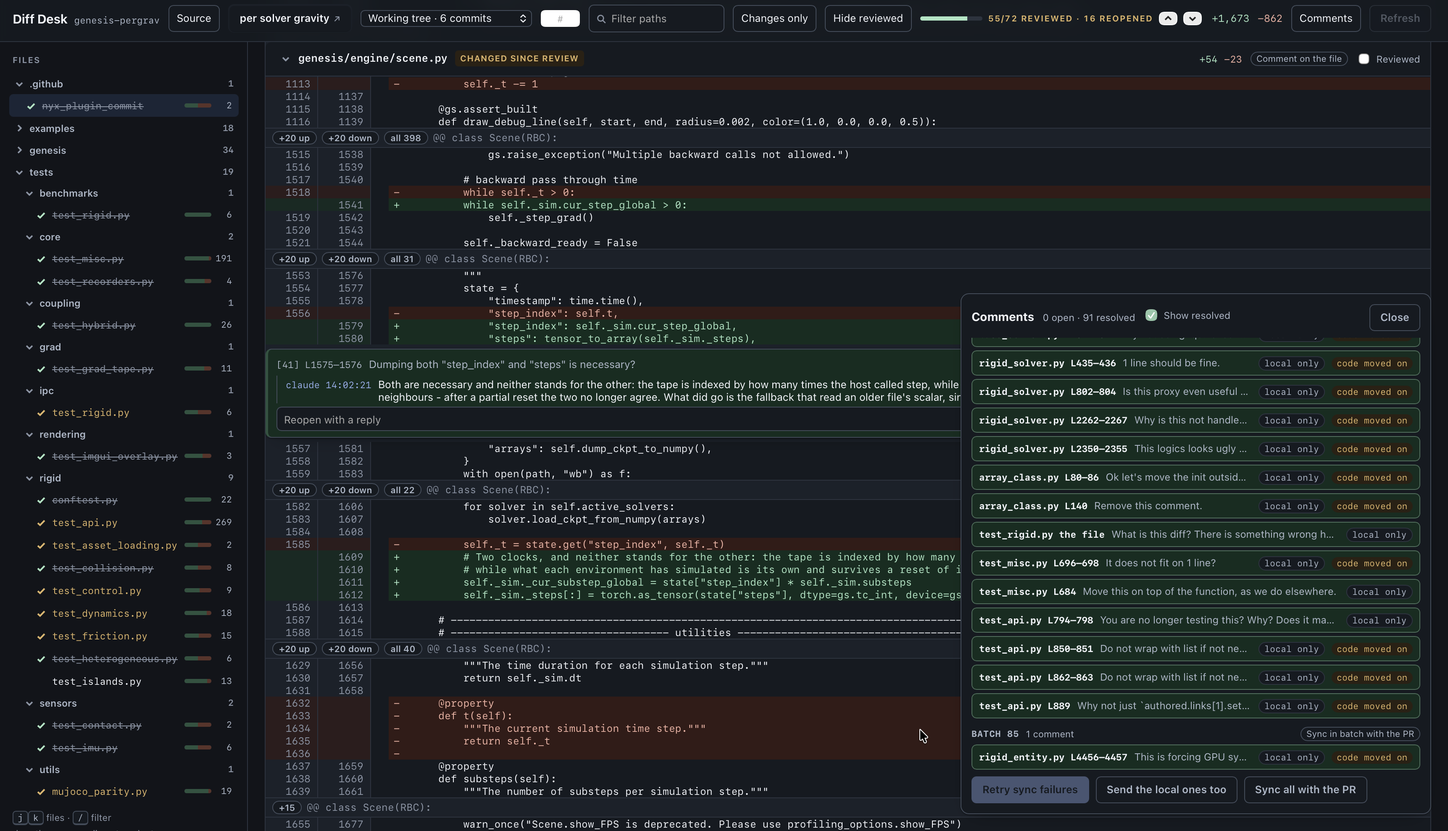
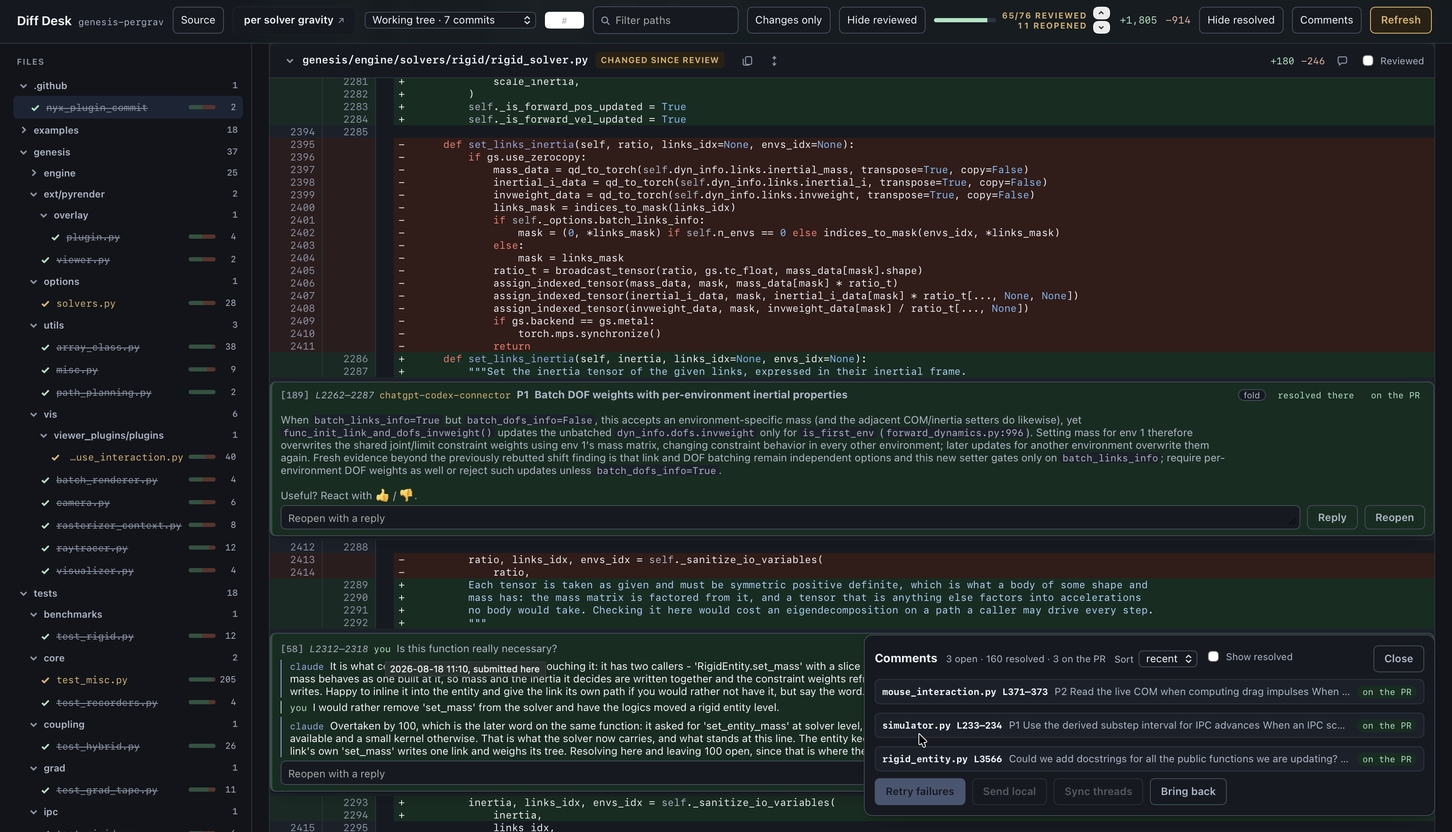
Say what the desk is for, and show what it looks like now. (#64)

Changed region(s): [[0.0, 0.0, 0.9936, 1.0], [0.0, 0.0, 0.2174, 0.0617], [0.0, 0.9869, 0.0311, 1.0]]

diff --git a/diff_desk_template.html b/diff_desk_template.html
@@ -1532,14 +1532,15 @@
   }
 
   async function syncThere(loud) {
-    // Replies both ways, and the pull request's word on what is resolved: it is the copy everyone else reads.
+    // A sync only listens: replies, comments opened there, and the pull request's word on what is resolved, which is
+    // the copy everyone else reads. What this desk holds goes out when the reader sends that thread.
     const request = branch().pr;
     if (!request || !notes.live) return;
     if (loud) els.logresult.textContent = `Syncing with PR #${request.number}...`;
     const outcome = await post("sync", where());
     if (loud) {
       els.logresult.textContent = outcome.ok
-        ? `Sent ${outcome.sent}, brought back ${outcome.brought}, closed ${outcome.closed} here`
+        ? `Brought back ${outcome.brought} reply(ies), took ${outcome.took} comment(s) in, closed ${outcome.closed} here`
         : `Could not sync: ${outcome.error || "GitHub unreachable"}`;
     }
     if (!outcome.ok) announce("sync", `PR #${request.number}`, outcome.error || "GitHub unreachable");

diff --git a/desk.py b/desk.py
@@ -310,7 +310,7 @@ job = jobs.add_parser("comments", help="what has been submitted")
 job.add_argument("--all", action="store_true", help="include the ones already addressed")
 job.set_defaults(run=comments)
 
-job = jobs.add_parser("sync", help="carry replies both ways with the pull request")
+job = jobs.add_parser("sync", help="bring back what the pull request holds")
 job.set_defaults(run=sync)
 
 job = jobs.add_parser("bind", help="aim comments at the pull request, or keep them local")

diff --git a/README.md b/README.md
@@ -1,222 +1,112 @@
 # Diff desk
 
-A local code review page for any git range, and a way to hand the comments you leave on it to an AI coding session.
+A local review page for any git range, and a way to hand the comments left on it to an AI coding session or to a pull request.
 
-![The review page: the file tree, a diff with a comment thread open, and the comment panel](media/desk.png)
+![The review page: the file tree, a diff with a comment thread open, and the Comments panel](media/desk.png)
 
-Point it at a repository and a base ref; it serves a review page on `127.0.0.1:8787` with your branches as tabs, each
-scoped to the whole range or to a single commit. You comment on lines by dragging over them; every submitted batch is
-recorded to a file with a cursor, so a session can pick up exactly what it has not seen yet, work through it, and mark
-each comment addressed - which the page then shows as closed. If the branch has an open pull request, the same batch
-can optionally be posted there as one review.
+## What it is for
 
-It needs `git`, `gh` and python3. Nothing else - no build step, no packages, no service.
+Any range of commits, whoever wrote them. These are typical uses, not the only ones:
 
-## Using it
+- Read what a session just wrote, before any of it becomes a pull request.
+- Review an open pull request locally, holding every remark until you decide to send it.
+- Hand the remarks to a session locally, and put only the settled outcome on the pull request.
+- Let a session review someone else's pull request, then audit and edit its remarks before they go out.
+
+It needs `git`, `gh` and python3. No build step, no packages, no service.
+
+## Serving a review
 
     python3 desk.py serve --dir /path/to/repo --base upstream/main [refs ...]
 
-What can be reviewed:
+The page comes up on `127.0.0.1:8787`, each ref a tab, scoped to the whole range or to a single commit.
 
-- **Local branches.** Omit the refs entirely to be offered every local branch ahead of the base. The checked-out
-  branch is shown with its uncommitted work included, so a review can start before a commit exists.
-- **Pull requests, by number** - `3243`, `#3243` or `pr/3243`. The head is fetched from the upstream repository by
-  number, so neither the fork it lives on nor the branch name it uses has to be known, and a head force-pushed since
-  the last look is picked up. It lands in `refs/diffdesk/pull/<number>`, out of the way of your own branches. One
-  fetched earlier stays reviewable while GitHub is unreachable: what cannot be read falls back to the head on disk.
+- **Local branches.** Omit the refs to be offered every branch ahead of the base. The checked-out branch carries its uncommitted work, so a review can start before a commit exists.
+- **Pull requests, by number** - `3243`, `#3243` or `pr/3243`. The head is fetched by number into `refs/diffdesk/pull/<number>`, so neither the fork it lives on nor its branch name has to be known, and a force-push since the last look is picked up. One fetched earlier stays reviewable while GitHub is unreachable.
+- Both are reviewed side by side as tabs, and the page's **Source** panel switches repository, base, branch and pull request without a restart.
 
-Both can be reviewed side by side in one desk, as tabs. A tab whose branch has a pull request names it on hover - title
-and link - and clicking the tab you are already on opens that pull request on GitHub. Repository, base, branches and pull requests can also be
-switched from the page's own Source panel, without restarting anything - it lists the branches ahead of the base and
-every open pull request, filterable together.
+## Reading a diff
 
-On the page:
+- The file list is a tree following the repository's folders, foldable and remembered, with a count per folder. A chain of single-child directories is one row.
+- `j`/`k` walk the files, `/` filters them, `c` comments on the selection, `r` marks the current file reviewed.
+- **Changes only** hides context lines, **Hide reviewed** clears what you are done with, and **Reviewed** folds one file away. The tick is kept per file digest, so a file whose diff moves reopens itself.
+- **`+20 up` / `+20 down` / `all N` / `+20 below`** bring in the lines the diff left out, read from the file at that revision.
+- A file is built when you come within reach of it and let go once you are well past, standing at the height its lines measured. A six-thousand-line review is 5,700 nodes rather than 218,000 and opens in half a second rather than seven. What it costs: the browser's own search reaches the files you are near.
+- Copying a selection gives the code alone - no line numbers, no `+`/`-` markers, indentation intact.
+- **What you have not seen does not stay folded**: a file whose diff changed since you ticked it, one holding a comment never shown to you, a resolved thread answered since you last read it. Seen means it has been on your screen.
+- The branch is watched while you read it. **Refresh** is offered once the diff it was built from has moved on - a commit, a fixup, work saved on disk - and never taken on your behalf: it keeps the branch, the commit, every comment and every tick.
 
-- **Drag the line numbers or the `+`** to select a range, and let go to open the comment box. A range may cover removed
-  and added lines together. Dragging across the code selects the code, as anywhere else - that is how it is copied.
-- **`+20 up` / `+20 down` / `all N`** on each hunk header, and `+20 below` at the end of a file, bring in the lines the
-  diff left out, read from the file at that branch's revision.
-- **Reviewed** folds a file away. The tick is remembered per branch and per file digest, so a file whose diff changes
-  reopens itself rather than staying silently ticked.
-- **Send** in the comment box posts that one comment immediately; **Add to review** keeps it for a batch that goes out
-  together with **Submit review** and an optional overall note. Both take the same path, so a lone comment is recorded,
-  threaded and posted exactly like a batch.
-- **Nothing has to go out all at once.** Each comment waiting in the review tray has its own Send, leaving the rest
-  pending, and the Comments panel groups everything by the batch it was written in, with a Send for each - so batches go
-  to the pull request one at a time, in whatever order suits.
-- **A file can be commented on as a whole**, from its header, for a remark that belongs to no line of it. It is
-  recorded, threaded, replied to and resolved like any other, reads as "the file" wherever a line range would be, and
-  reaches a pull request as a review comment naming the file with no line beside it.
-- **A session hears about replies, not only comments.** The log carries an event cursor that every write bumps, and
-  `desk.py watch` follows it: an answer written on a comment read long ago reaches the session exactly as a new comment
-  does. Each event says which side made it, so a session never mistakes its own reply for news, and the watch keeps
-  running rather than stopping at the first thing said.
-- **Every comment is a thread.** Either side can reply, and either side can resolve or reopen it. Resolving folds the
-  thread to its remark alone and keeps every reply behind one click, so closing a comment discards nothing.
-- **A comment can be deleted**, whole or down to its last reply, from the `x` on the thread and the one on that reply.
-  A comment already posted is deleted on the pull request as well, newest first, and a deletion GitHub refuses leaves it
-  here untouched rather than hiding a remark that is still there. Deleting is the one thing that does discard: it is
-  asked for each time, and only the last reply can go, since deleting further up would leave the answers below it
-  standing against nothing.
-- **Resolving one that reached the pull request resolves it there too**, by finding the thread its text opened and
-  resolving that. Until GitHub confirms it, the comment reads "not resolved there yet" beside its own resolution rather
-  than claiming agreement it does not have; a resolution that could not be made is retried like a post that did not
-  land.
-- **Every remark and every reply says whose it is**, in the ink their words are read in: yours, the session's, or the
-  author who wrote it on the pull request - your own login among them, read back as "you". It opens the line the way a
-  name opens a line of dialogue, so the words run on from it and wrap at the full width; hovering says where it was
-  written, which is the one thing rarely worth the room.
-- **A reply is a comment attached to a thread.**
-- **A thread goes out when you send it, as it reads then.** Each thread carries its own **Sync**, saying what pressing
-  it would carry - the remark if the pull request has none of it, the replies it does not hold, its resolution once you
-  have closed it. Whatever is written afterwards, by you or by a session, waits for the next press: nothing leaves this
-  desk as a consequence of somebody writing in a thread. A sync only brings back what the pull request holds.
-- **The Comments panel is where several are worked through.** Every row is a thread and sends itself from its own row;
-  **Sync the threads on the PR** sends every thread the pull request already holds, which is what a review that has been
-  going back and forth for a while needs.
-- **The panel is read by batch or by what moved last.** A batch says which submission a remark went out in, and nothing
-  else - a reply belongs to its thread and carries no batch of its own. So sorting by what moved last is where the
-  answer just written into a batch of long ago is found, and the choice outlives the reload.
-- **A sync brings the pull request's own comments in.** What a reviewer or a bot wrote there arrives as a comment of
-  its own, numbered like the rest and carrying its author, so a session hears about it from the watch and can answer it.
-  Those are the comments the desk answers rather than rewrites: the remark stays its author's word.
-- **What GitHub refuses is said where you are.** A sync, a send or a resolution that could not happen raises a notice
-  from the bottom of the page carrying the reason, and it stays until dismissed - the panel it happened in is often
-  closed. Pressing **Refresh** is acknowledged the same way: the button reports that it is collecting and refuses a
-  second press until it is done.
-- **Bring back** collects what the pull request holds: replies written there, arriving with their author, its word on
-  what is resolved, and the threads opened there that this desk has none of. It asks for nothing in return - a resolution
-  a thread there is holding closes it here, since that is the copy everyone else reads, and one closed here waits to be
-  sent. Bringing back twice brings nothing back twice.
+## Commenting
 
-  A resolution is believed only when GitHub reports the thread as resolved, so a send that could not be made says so on
-  the thread rather than reading as agreement nobody else can see.
-- **A review is held a screenful at a time.** Every file keeps its header; the lines of one are built when you come
-  within reach of it and let go once you are well past, and a card that has been let go stands at the height its lines
-  measured, so nothing under you moves as you read. A six-thousand-line review is 5,700 nodes rather than 218,000, opens
-  in half a second rather than seven, and redraws in 50 ms rather than two seconds. What it costs: the browser's own
-  search reaches the files you are near rather than every file at once, and a comment reached from the panel builds the
-  file it hangs in on the way.
-- **Copying a selection gives the code alone** - no line numbers, no `+`/`-` markers, indentation intact - so a snippet
-  lifted out of a diff pastes straight into an editor. A selection inside a single line copies as the browser made it.
-- **Code stays code.** A fenced block keeps its indentation as a code block, backticks stay inline code, and line
-  breaks stay where you put them. Pasted text is only ever text, never markup the page acts on.
-- **Edit** rewrites a comment, or any reply written here, and keeps what it said before. One already posted to a pull
-  request is marked as having moved on from what the pull request holds. A reply carried back from a pull request is
-  shown as its author wrote it and carries no Edit.
-- **Comments** in the header opens the log: every comment on the branch, whether it is open or resolved, whether it is
-  waiting for GitHub, already on the pull request, or local only. Clicking one jumps to it.
-- **The standing of a comment is a control, not a label.** Click "local only" on a comment to send that one to the pull
-  request, or the panel's button to send every local one at once; click it again to keep a comment out. The decision
-  stays changeable until it lands, so a comment written before deciding never has to be written twice.
+- **Drag the line numbers or the `+`** to select a range, and let go to open the box. A range may cover removed and added lines together. Dragging across the code selects the code, as anywhere else.
+- **A file header comments on the file as a whole**, for a remark that belongs to no line of it.
+- **Add to review** hands a comment to the tray, which submits the batch with **Submit review** and an optional overall note. A submission records the remarks here; **Also post to PR #N** in the tray is what sends them out with it.
+- **Every comment is a thread.** Either side replies, resolves or reopens. Resolving folds the thread to its remark and keeps the replies one click away.
+- **Every remark and reply says whose it is**, in the ink its words are read in - yours, the session's, or the author who wrote it on the pull request, your own login among them read back as "you". Hovering says when and where it was written.
+- **Edit** rewrites a remark, or a reply written here, keeping what it said before. A reply carried back from a pull request stands as its author wrote it.
+- **Delete** takes a thread, or its last reply, from the `x` on either. It is the one thing that discards, so it is asked for each time; one already posted goes from the pull request too.
+- **A comment follows its line** when the diff moves under it, reading "moved from L<n>". One whose line has left the diff is kept, marked "code moved on", at the end of the file it belonged to. Neither is ever resolved or deleted on your behalf.
+- **Every comment wears the number it is referred to by**, so an answer saying "[58]" points at a thread. Press `#`, type the number, and the page goes to it, unfolding whatever was folded; a URL ending in `#58` lands the same way.
+- A comment keeps the markdown that carries meaning: fenced blocks and backticks stay code, `>` lines read as the passage they quote. Pasted text is only ever text.
+- Comments survive a reload, a refresh and a browser closed on them, a half-written reply included.
+- **Comments** in the header opens the panel: every thread on the branch, open or resolved, waiting for GitHub or local only. Clicking one jumps to it.
 
-A comment remembers the line it was written against, so when the diff moves under it - a fixup pushed, a rebase - it
-follows that line to wherever it went and says "moved from L<n>" rather than sitting on a line number that now holds
-something else. A comment whose line is no longer in the diff at all is **kept**, marked "code moved on", and shown at
-the end of the file it belonged to. Neither is ever resolved or deleted on your behalf.
-- **Every comment wears the number it is referred to by**, so an answer that says "[58]" points at a thread you can
-  find. Press `#` from anywhere, type the number, and the page goes to it - unfolding the file and the thread whatever
-  state they were left in - and a URL ending in `#58` lands on it the same way.
-- **What you have not seen does not stay folded.** A file whose diff has changed since you marked it reviewed opens
-  itself, so does one holding a comment you have never been shown, and so does a resolved thread answered since you
-  last read it. What counts as seen is what has been on your screen: a thread built inside a folded file or below the
-  fold is not read, so it keeps showing itself until you have actually looked at it.
-  A fold you make by hand is remembered against the diff you made it on, so it holds until that diff moves.
-- **The branch is watched while you read it.** A reload collects the diffs again, and a page left open offers a
-  **Refresh** once what it was built from has moved on - a commit, a fixup, work saved on disk. It is offered, never
-  taken: rebuilding the diff under you would move the ground you are on, and taking it keeps the branch and commit you
-  were reading, along with every comment and tick. Comments written and not yet sent are kept through both, so a
-  refresh, a reload, or a browser closed on them costs nothing, and a reply half written into a thread survives the
-  page redrawing itself under it. Every box grows with what is written into it, up to the point where a long remark
-  would push the diff off screen and scrolls inside instead. A comment keeps the little markdown that carries meaning:
-  fenced blocks and backticks stay code, and a run of `>` lines reads as the passage it quotes.
-- **The file list is a tree** following the repository's folders, each foldable and remembered across reloads, with a
-  count per folder. A chain of single-child directories is one row, so a deep path costs one line and not one per
-  level. Walking onto a file inside a folded folder reveals it.
-- **Changes only** hides context lines; **Hide reviewed** clears what you are done with; `j`/`k` walk the files, `/`
-  filters them, `c` comments on the selection, `r` marks the current file reviewed.
+## Sending to a pull request
 
-## Handing the comments to a session
+Nothing leaves this desk on its own.
 
-The desk records every batch to `~/.claude/diff-desk/comments.jsonl`, numbering each comment and stamping the batch it
-arrived in. A session waits for one with:
+- **A thread goes out when you send it, as it reads then.** Each carries its own **Sync**, saying what pressing it would carry: the remark if the pull request has none of it, the replies it does not hold, the resolution once you have closed it. Whatever is written afterwards waits for the next press.
+- **The Comments panel works through several.** Every row sends itself; **Send local** aims the local ones at the pull request and sends them; **Sync threads** sends every thread the pull request already holds, which is what a review going back and forth needs.
+- **Bring back** collects what the pull request holds: replies written there with their authors, its word on what is resolved, and the threads opened there this desk has none of. It asks for nothing in return, and bringing back twice brings nothing back twice.
+- **The standing of a comment is a control.** Click "local only" to send that one, click it again to keep it out. The decision stays changeable until it lands.
+- A range becomes a GitHub range comment; one covering removed and added lines is anchored on the added side, the side a range can be expressed on. A batch goes out as one review.
+- **A send that does not land loses nothing.** The comment is recorded before GitHub is contacted, marked `pending` until it lands and `failed` if it does not, keeping the reason. What is owed is retried three ways: the panel's **Retry failures**, on its own every few seconds, and the moment the network returns. A rejection retrying cannot help - a line outside the diff, no permission - is marked `refused` instead.
+- **A resolution is believed only when GitHub reports the thread resolved.** Until then the comment reads "not resolved there yet" beside its own resolution.
+- **What GitHub refuses is said where you are**, as a notice carrying the reason that stays until dismissed.
+- **The panel reads by batch or by what moved last.** A batch names the submission a remark went out in; a reply belongs to its thread and carries no batch, so recency is where the answer just written into an old batch is found.
 
-    python3 desk.py watch
+## Working with a session
 
-which blocks until a batch lands, prints each comment as `[seq] branch path:line-endLine (side) text` with its state
-and any replies, each numbered by its place in the thread, and exits. It reports to stdout and nowhere else: sent to a
-file, the watch keeps watching and reports to nobody. A session then answers, closes, or rewrites them:
+Every comment is recorded to `~/.claude/diff-desk/comments.jsonl`, numbered, with an event cursor every write bumps.
 
+    python3 desk.py watch                                     # block until something is said, print it, exit
+    python3 desk.py comments                                  # what is outstanding, with replies and GitHub standing
     python3 desk.py reply 3 "it happens because ..."          # answer, leaving it open
     python3 desk.py resolve 3 4 --answer "fixed in abc1234"   # answer and close
     python3 desk.py resolve 3 --reopen                        # put one back
     python3 desk.py edit 3 "what I actually meant ..."        # rewrite, keeping the earlier wording
     python3 desk.py edit 3 --reply 0 "worded better ..."      # rewrite one reply, by its place in the thread
+    python3 desk.py sync                                      # bring the pull request's comments in
 
-The page picks all of that up on its own, threading the replies under the comment. `desk.py comments` lists what is
-still outstanding, with each thread's replies and where it stands with GitHub.
+The watch follows the cursor, so an answer written on a comment read long ago arrives exactly as a new comment does, and each event says which side made it, so a session never mistakes its own reply for news. It reports to stdout and nowhere else. The page picks all of it up on its own, threading the replies under the comment.
 
-As a Claude Code skill, drop this repository into `~/.claude/skills/diff-desk/` and the flow above needs no
-explaining - `SKILL.md` tells the session how to serve a review, wait for comments, and close them out.
+A sync brings the pull request's own comments in, each carrying its author, so a remark a reviewer or a bot wrote there reaches the session through the watch and can be answered. Those the desk answers rather than rewrites: the remark stays its author's word.
 
-## Posting to a pull request
+Dropped into `~/.claude/skills/diff-desk/`, this is a Claude Code skill and the flow above needs no explaining - `SKILL.md` tells the session how to serve a review, wait for comments, and close them out.
 
-When a branch has an open pull request, the tray offers to post the batch there as well. Ranges become GitHub range
-comments; a comment covering removed and added lines is anchored on the added side, which is the side a line range can
-be expressed on. It goes out as a single review rather than a stream of separate comments, and it is always opt-in.
+## Where things live
 
-**A post that does not land loses nothing.** The comment is written to the log before GitHub is contacted, so the order
-of events is: recorded, then attempted. A comment bound for a pull request is marked `pending` until it lands and
-`failed` if it does not, keeping the reason. Either way it stays in the log, and the log panel shows exactly how many
-are waiting.
+State is `~/.claude/diff-desk/`, overridden with `DIFF_DESK_HOME`; the port is `DIFF_DESK_PORT`. One log holds every review the desk has served, each comment recording which pull request it was sent to, so posting, resolving or syncing one review never reaches another's comments.
 
-What is waiting is retried three ways: the button in the log panel, on its own every few seconds while the page is
-open, and the moment the browser reports the network is back. Retrying takes everything still owed without being told
-which, so a failure needs no bookkeeping from you. A comment never meant for the pull request is left alone by all of
-it.
+A review is identified by its pull request, not by the ref it is read from. The same work opened from its branch, from the head fetched by number, or from the number typed in is one review: its comments and its reviewed ticks follow it across all three.
 
-A refusal is told apart from a failure: when GitHub rejects the comment itself - a line outside the diff, a pull
-request that is gone, no permission - retrying cannot help, so it is marked `refused` with its reason and left in the
-log instead of being attempted forever.
-
-## Layout
+## Contributing
 
 | file | what it is |
 | --- | --- |
-| `desk.py` | the entry point: `serve`, `watch`, `comments`, `resolve`, `refs` |
-| `gen_diff_data.py` | turns a git range into the payload a page renders: hunks, digests, pull request resolution |
+| `desk.py` | the entry point: `serve`, `watch`, `comments`, `reply`, `edit`, `resolve`, `bind`, `sync`, `refs` |
+| `gen_diff_data.py` | turns a git range into the payload a page renders: hunks, digests, pull request threads |
 | `serve_diff.py` | the local server: the page, rescans, file slices, comments, resolutions, pull request posts |
 | `diff_desk_template.html` | the page itself, with `__DIFF_DATA__` and `__BUILD__` substituted at build time |
 | `SKILL.md` | how a Claude Code session drives all of the above |
 
-State lives in `~/.claude/diff-desk/` (override with `DIFF_DESK_HOME`); the port is `DIFF_DESK_PORT`. One log holds
-every review the desk has served, and each comment records which pull request it was sent to, so posting, resolving or
-syncing one review never reaches another's comments.
-
-A review is identified by its pull request, not by the ref it is read from. The same work opened from its branch, from
-the head fetched by number, or from the number typed in is one review: its comments and its reviewed ticks follow it
-across all three.
-
-## Development
-
     pip install pytest pytest-xdist playwright && playwright install chromium firefox webkit
     python3 -m pytest
 
-The suite builds its own repository to review and its own desk to serve it, so it touches neither your checkouts nor
-the network. Nothing is shared between the engines either, so the five groups it is collected into - one per engine,
-one for the server, one for the collector - can be run side by side, which is about three times quicker:
+The suite builds its own repository to review and its own desk to serve it, so it touches neither your checkouts nor the network. Nothing is shared between the engines either, so its five groups - one per engine, one for the server, one for the collector - run side by side, about three times quicker:
 
     python3 -m pytest -n 5 --dist loadgroup
 
-Every worker builds its own repository and brings up its own desk on a port of its own. Leave the flags off while
-working on a failure: one process, in order, is where a failure is easiest to read.
+Leave the flags off while working on a failure: one process, in order, is where a failure is easiest to read.
 
-`tests/test_page.py` drives the page in Chromium, WebKit and Firefox because pointer handling and sticky positioning
-genuinely differ between them - two defects that shipped here were invisible in two engines out of three:
-
-- A trailing click follows every drag, aimed at the pin or at an ancestor depending on the engine, and collapses the
-  range to a single line unless it is swallowed.
-- An `overflow` on a file card makes the card its own scrollport, so its head never pins and the hunk delimiter is
-  what stands at the top of the view, reading as the file's name.
-
-A change to selection, hit testing or layout is not done until the suite passes in all three.
+`tests/test_page.py` drives the page in Chromium, WebKit and Firefox because pointer handling and sticky positioning genuinely differ between them - two defects that shipped here were invisible in two engines out of three. A change to selection, hit testing or layout is not done until the suite passes in all three.
